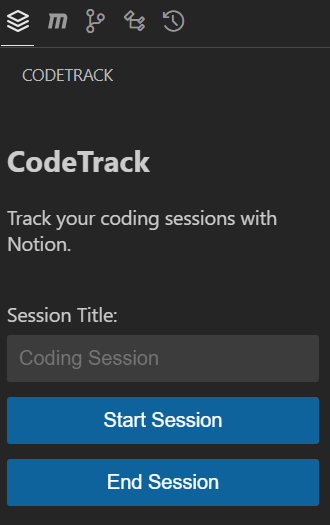
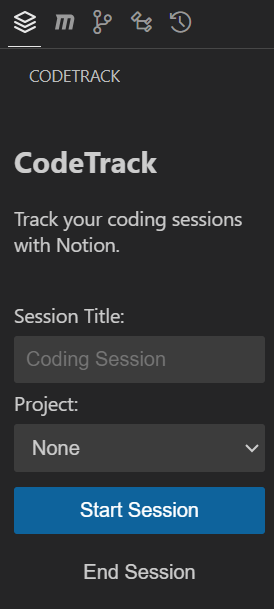
Edited README
Added Template and just added button enabling and Disabling

diff --git a/resources/script.js b/resources/script.js
@@ -127,6 +127,7 @@ try {
         
         // Now attach event listeners to DOM elements
         const startButton = document.getElementById('startSessionBtn');
+        const endButton = document.getElementById('endSessionBtn');
         if (startButton) {
             startButton.addEventListener('click', () => {
                 wv_log('Start Session button pressed');
@@ -136,12 +137,13 @@ try {
                 }
                 project = document.getElementById('project').value;
                 document.getElementById('project').disabled = true;
+                startButton.disabled = true;
+                endButton.disabled = false;
                 vscode.postMessage({ command: 'startSession', title: title, project: project });
                 document.getElementById('title').placeholder = title;
             });
         }
 
-        const endButton = document.getElementById('endSessionBtn');
         if (endButton) {
             endButton.addEventListener('click', () => {
                 wv_log('End Session button pressed');
@@ -150,7 +152,8 @@ try {
                 document.getElementById('title').value = '';
                 document.getElementById('title').placeholder = '';
                 document.getElementById('project').disabled = false;
-
+                startButton.disabled = true;
+                endButton.disabled = false;
             });
         }
 

diff --git a/resources/styles.css b/resources/styles.css
@@ -19,6 +19,11 @@ button {
 button:hover {
     background: var(--vscode-button-hoverBackground);
 }
+button:disabled {
+    background: var(--vscode-button-disabledBackground);
+    color: var(--vscode-button-disabledForeground);
+    cursor: not-allowed;
+}
 input[type="text"] {
     border: 1px solid var(--vscode-input-border);
     background: var(--vscode-input-background);

diff --git a/resources/sidebar.html b/resources/sidebar.html
@@ -19,7 +19,7 @@
     <select id="project"></select>
 
     <button id="startSessionBtn">Start Session</button>
-    <button id="endSessionBtn">End Session</button>
+    <button id="endSessionBtn" disabled>End Session</button>
 
     <script nonce="${nonce}" src="${scriptUri}"></script>
 </body>

diff --git a/README.md b/README.md
@@ -53,6 +53,31 @@ CodeTrack can be customized to work with your specific Notion database structure
    - Select your project relation property
 4. Save your settings
 
+## Notion Templates
+
+The bare minimum one need to use CodeTrack is 2 databases - one relating to the other as well as having a date/time
+property - but you can save time by using this template which I use myself and recommend:
+
+### Basic Time Tracking Template
+
+This template includes:
+- A Github style Heatmap
+- Project + Sessions Database's to aid project organisation
+- Goal Database to encourage consistency
+- Analytics to show how long spent coding
+
+[Download Template](https://phantom-piranha-8ce.notion.site/Coding-Workspace-7368ee7e3c444c8593f8019fbfa77a42)
+
+Thank you [JameelCodes](https://www.youtube.com/@JameelCodes) for this brilliant template
+### Using Templates
+
+1. Duplicate the template to your Notion workspace
+2. Share the page with your integration
+3. Configure CodeTrack to use the **Session** database URL
+4. Map the properties in the extension settings
+
+> **Note:** You can always create your own database from scratch with just the minimal required fields (title and date), then expand it as needed for your workflow.
+
 ## Usage
 
 ### Sidebar Interface
